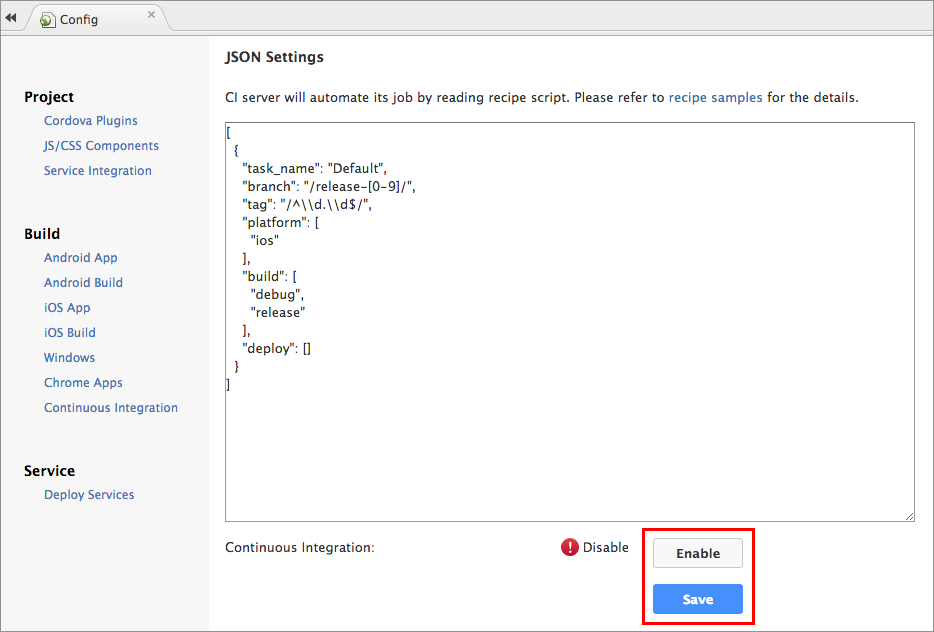
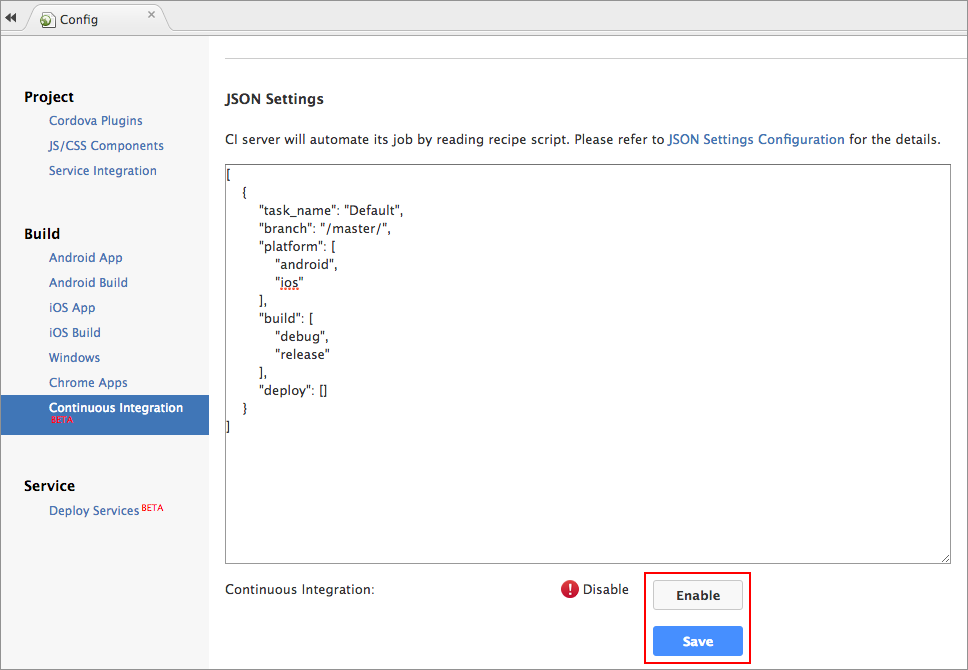
[update] Updating screenshot and change text for Monaca CI page.

diff --git a/src/doc/monaca_ide/manual/monaca_ci/overview.rst b/src/doc/monaca_ide/manual/monaca_ci/overview.rst
@@ -34,21 +34,21 @@ Assuming you have successfully linked a  GitHub repository to your project, you 
 
   .. code-block:: javascript
 
-      [
-          {
-              "task_name": "Default",
-              "branch": "/release-[0-9]/",
-              "tag": "/^\\d.\\d$/",
-              "platform": [
-                  "ios"
-              ],
-              "build": [
-                  "debug",
-                  "release"
-              ],
-              "deploy": []
-          }
-      ]
+    [
+		    {
+		        "task_name": "Default",
+		        "branch": "/master/",
+		        "platform": [
+		            "android",
+		            "ios"
+		        ],
+		        "build": [
+		            "debug",
+		            "release"
+		        ],
+		        "deploy": []
+		    }
+		]
 
 3. Monaca CI is disabled by default. To enable it, click :guilabel:`Enable` and then :guilabel:`Save` it. That's it! Now your Monaca CI is ready. You can start pushing your project code to the valid branch or tag as configured in JSON settings. Then, you should be able to find the built files under Build History panel. It may take some time for the build process to be completed.
 
@@ -166,7 +166,7 @@ In the following table, there are necessary parameters you will need to use in t
 |                 |  - ``ios``: a block for iOS parameters you may need to use for the deployment service.                           |
 |                 |  - ``android``: a block for Android parameters you may need to use for the deployment service.                   |
 |                 |                                                                                                                  |
-|                 |  Please refer to :ref:`here <supported_services>` on currently supported and upcoming deployment services.       |
+|                 |  Please refer to :ref:`here <supported_services>` for configuration parameters of each deploy service.           |
 +-----------------+------------------------------------------------------------------------------------------------------------------+
 
 Example
@@ -179,8 +179,7 @@ Here is an example of a recipe script configured for multiple deploy services an
     [
         {
             "task_name": "test",
-            "branch": "/release-[0-9]/",
-            "tag": "/^\\d.\\d$/",
+            "branch": "/master/",
             "platform": [
                 "ios",
                 "android"
